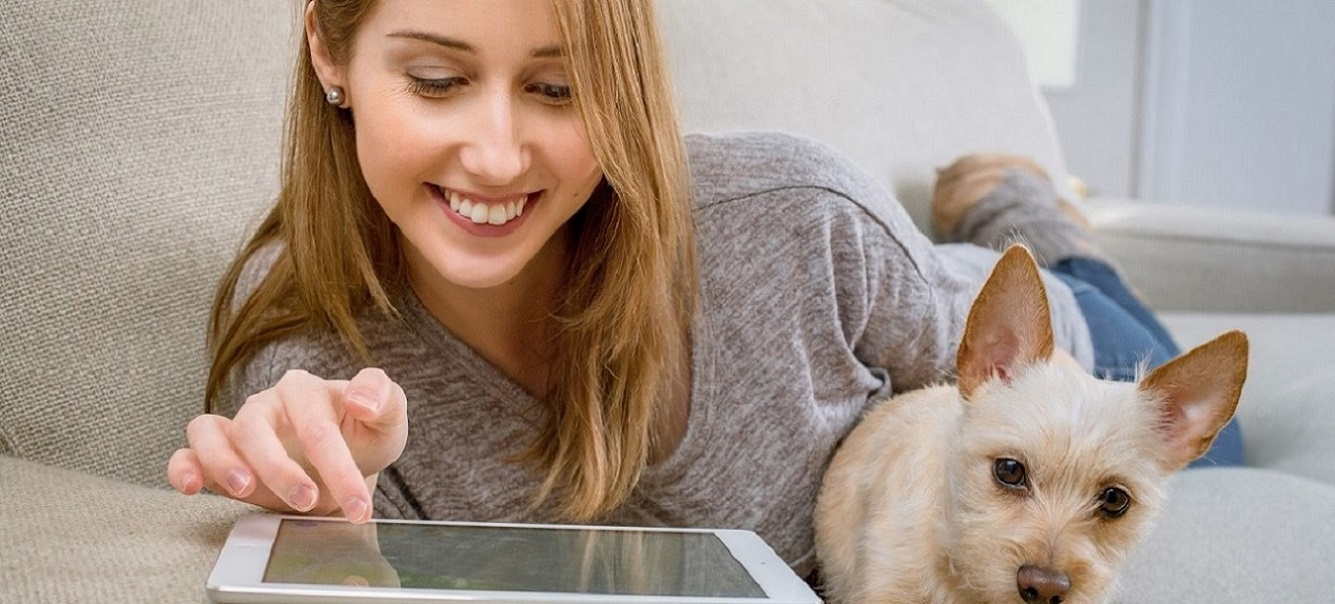
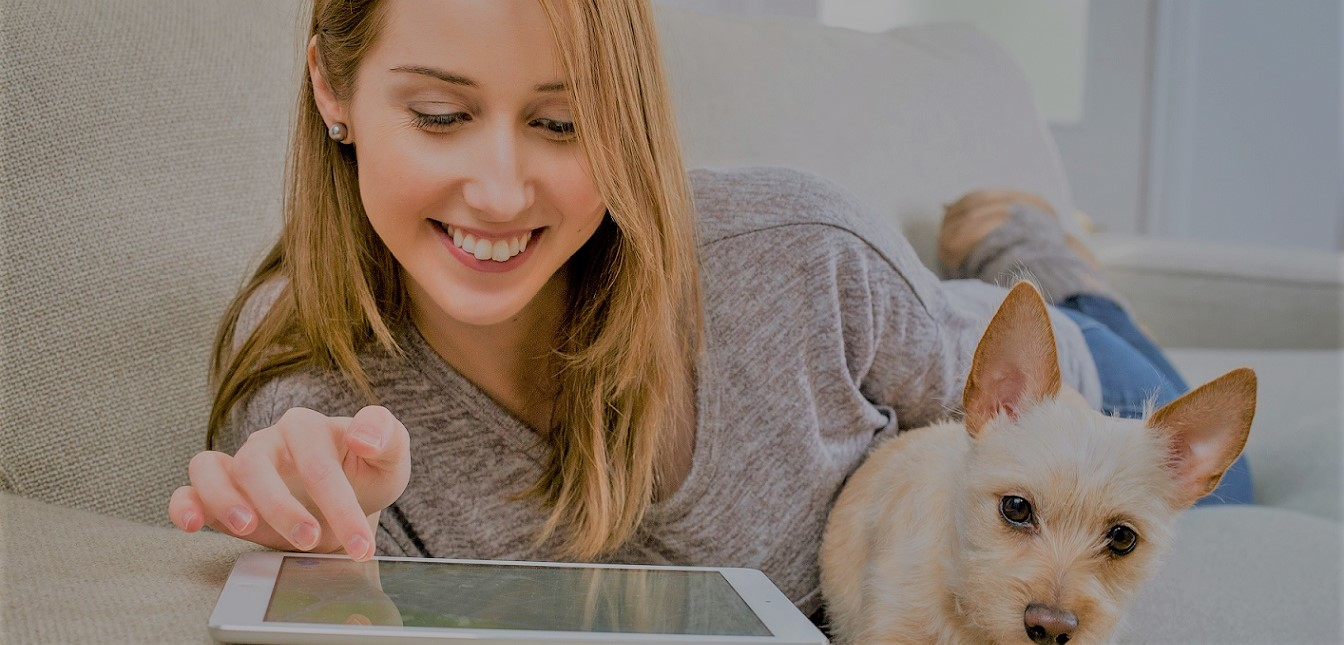
update 22112017

diff --git a/resources/style.css b/resources/style.css
@@ -26,7 +26,7 @@ header{
   font-weight: normal;
   color: white;
   border:none;
-  width:300px;
+  width:365px;
   padding-left: 50px;
   display: inline-flex;
   align-items: center;
@@ -64,9 +64,9 @@ li{
   border-style: solid;
   width:100%;
   text-align: center;
-  margin-top: 18px;
+  margin-top: 15px;
   background-image: url("img/pic2.jpeg") ;
-  height: 350px;
+  height: 390px;
   border-bottom-style: solid;
   border-bottom-width:35px;
   border-right: none;
@@ -75,24 +75,24 @@ li{
   border-color:#2c3e50;
   padding-top: 200px;
   color: white;
-
-
 }
+
 .bookcover h1{
   font-size: 60px;
-  margin-top: 92px;
-  line-height: 30px;
+  margin-top: 123px;
+  line-height: 40px;
   font-family: "Helvetica Neue", Helvetica, Arial, sans-serif;
     text-shadow: -1px 0 #2c3e50, 0 1px #2c3e50, 1px 0 #2c3e50, 0 -1px #2c3e50;
 }
 
 .bookcover h2{
-    text-shadow: -1px 0 #2c3e50, 0 1px #2c3e50, 1px 0 #2c3e50, 0 -1px #2c3e50;
+    text-shadow: -1px 0 1px #2c3e50, 0 1px 1px #2c3e50, 1px 0 1px #2c3e50, 0 -1px 1px #2c3e50;
   font-size:40px;
+  line-height: 0px;
 }
 
 .part2{
-  background-color: rgb(249, 227, 238);
+  background-color: rgb(247, 239, 245);
 }
 .part2title{
   font-size: 20px;
@@ -115,6 +115,12 @@ li{
 .marketing, .publishing, .bookproj{
 
 }
+
+a.link-orange {
+    /* color: #EC8606; */
+    color: #d46b00!important;
+    text-decoration: underline;
+}
 /*button*/
 .btn-center {
     text-align: center;
@@ -135,11 +141,7 @@ li{
       border-radius: 6px;
       text-decoration: none;
   }
-  a.link-orange {
-      /* color: #EC8606; */
-      color: #d46b00!important;
-      text-decoration: underline;
-  }
+
   .btn-lg{
     padding: 10px 30px 14px;
     font-size: 22px;

diff --git a/index.html b/index.html
@@ -24,21 +24,21 @@
     </header>
     <div class="bookcover">
 
-      <h1>E-books for growing business</h1>
-      <h2>and then put something here.</h2>
+      <h1>E-books for growing businesses</h1>
+      <h2></h2>
       <a href="#" class="btn-center btn-orange btn-lg" role="button">Get started</a>
     </div>
 
     <div class="part2">
     <div class="part2title">
-      <h1></br>How can we make you money?</h1>
+      <h1></br>Join our community, it's free! There are three options.</h1>
     </div>
     <div class="part2a">
       <div class="Interview">
         <img src="resources/img/interview.jpg" height="240px" width="320px"alt="book project">
         <h3>Interview</h3>
-        <h4>Find out how our interview process</br>
-           can make you money.</h4>
+        <h4>Learn about how we interview people</br>
+           for e-books and developing apps.</h4>
           <p><a class="link-orange" href="#">Learn more</a></p>
       </div>
       <div class="marketing">
@@ -59,6 +59,6 @@
       </div>
     </div>
     </div>
-  
+
   </body>
   </html>
